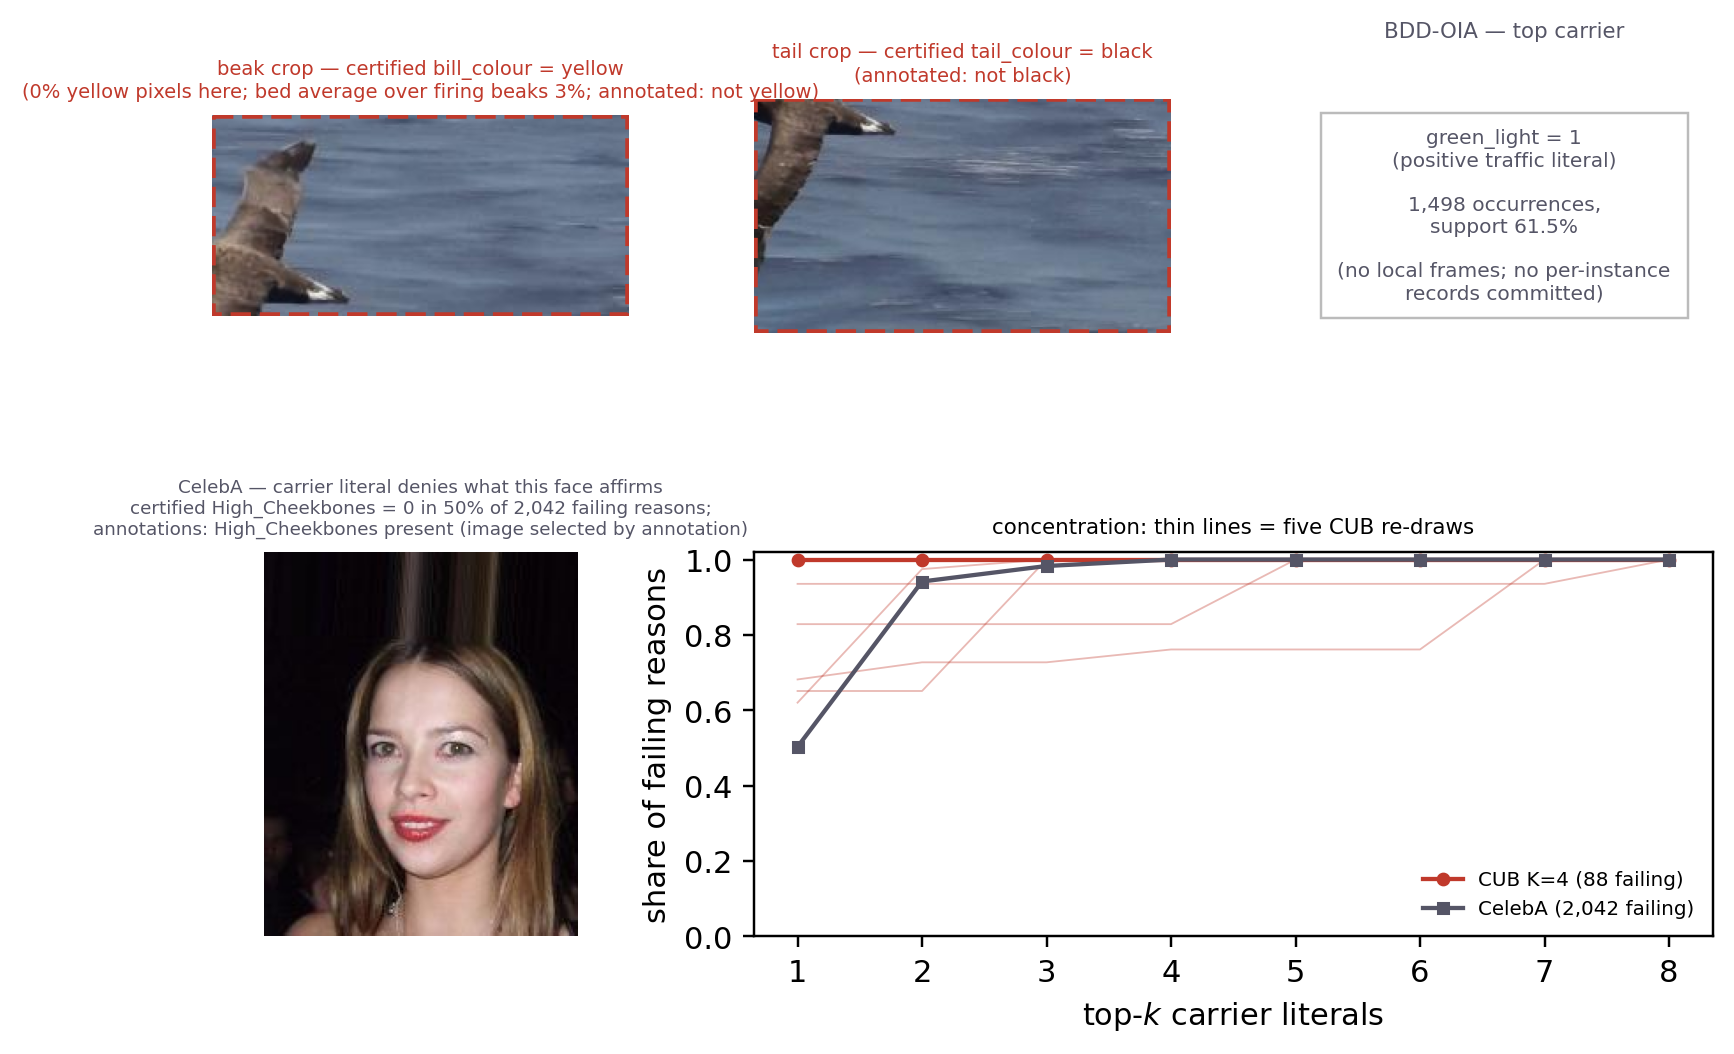
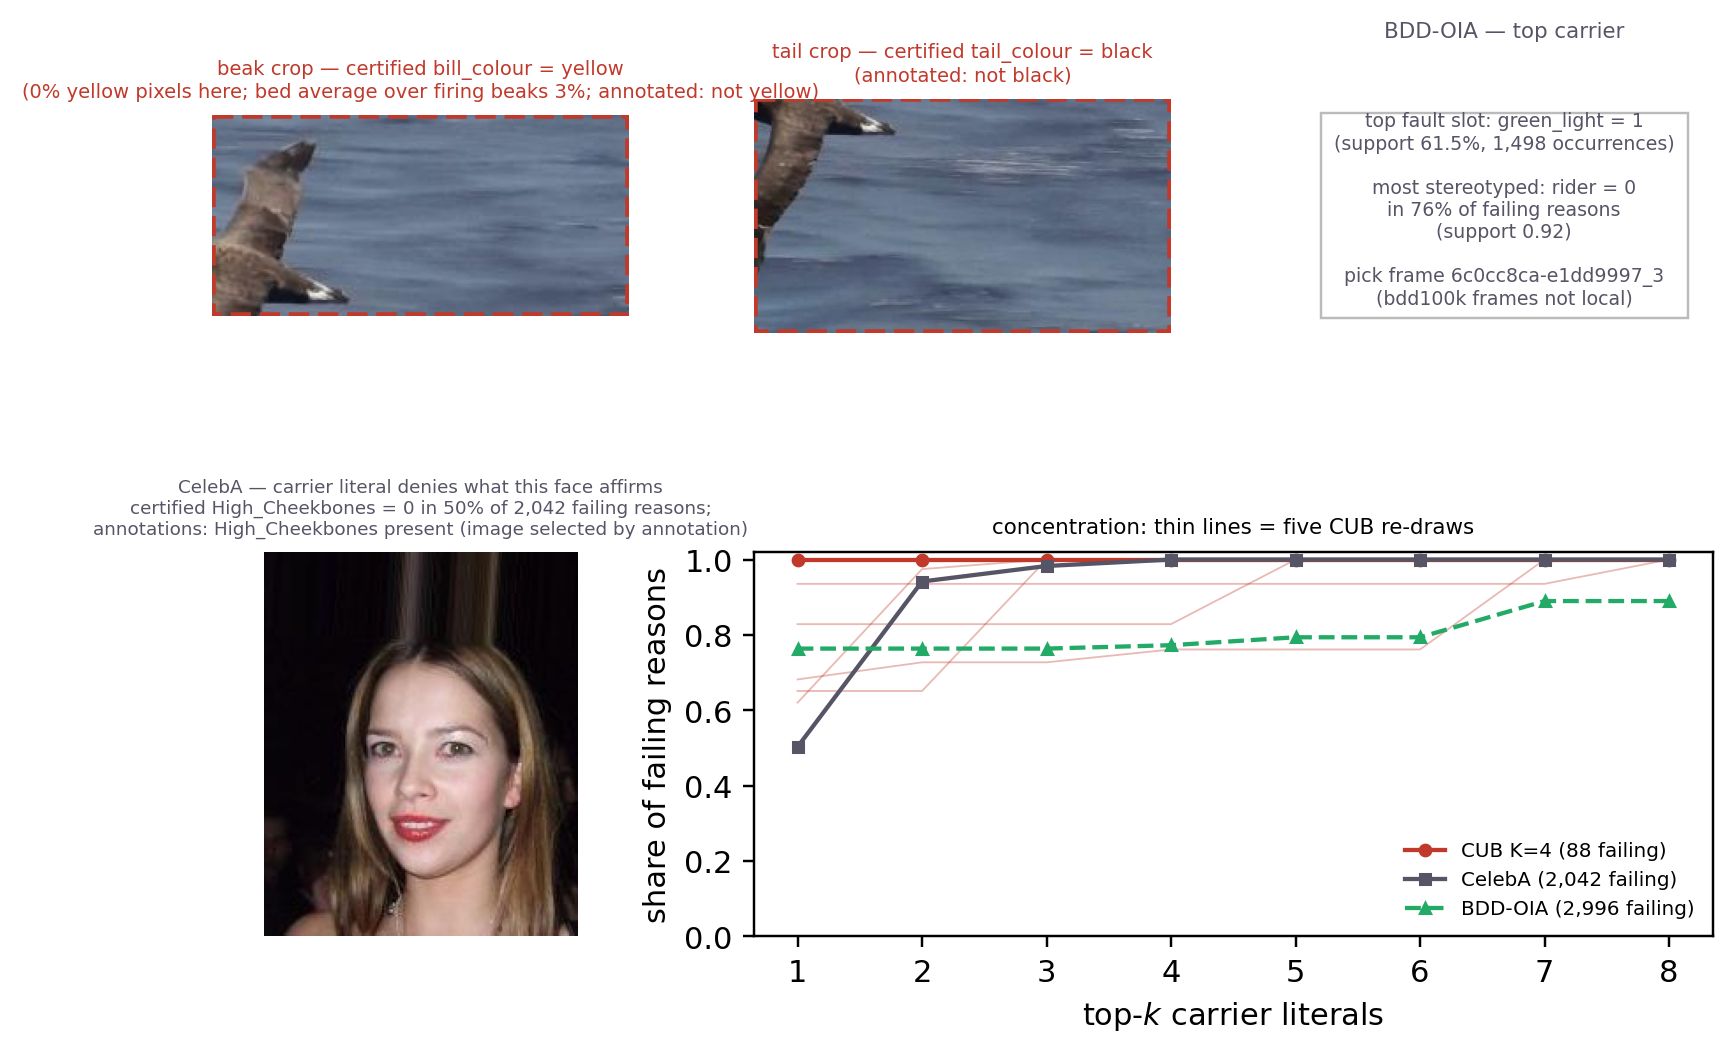
feat: RSBench per-instance records found in committed audit - BDD concentration line + stereotyped-vs-fault nuance in fig_failures; named pick frame 6c0cc8ca-e1dd9997_3; caption corrected (records existed)

diff --git a/grounded_vision/scripts/plot_fig_failures.py b/grounded_vision/scripts/plot_fig_failures.py
@@ -145,10 +145,11 @@ def main():
     ax02.set_title("BDD-OIA — top carrier", fontsize=7, color=GREY)
     bdd = json.load(open(os.path.join(REPO, "results", "bdd_oia_audit.json")))
     gl = bdd["literal_marginals"]["green_light=1"]
-    ax02.text(0.5, 0.5, "green_light = 1\n(positive traffic literal)\n\n"
-              f"{gl['n']:,} occurrences,\nsupport {gl['support']:.1%}\n\n"
-              "(no local frames; no per-instance\nrecords committed)",
-              ha="center", va="center", fontsize=6.6, color=GREY,
+    ax02.text(0.5, 0.52, "top fault slot: green_light = 1\n"
+              f"(support {gl['support']:.1%}, {gl['n']:,} occurrences)\n\n"
+              "most stereotyped: rider = 0\nin 76% of failing reasons\n(support 0.92)\n\n"
+              "pick frame 6c0cc8ca-e1dd9997_3\n(bdd100k frames not local)",
+              ha="center", va="center", fontsize=6.2, color=GREY,
               transform=ax02.transAxes)
     ax02.add_patch(Rectangle((0.06, 0.18), 0.88, 0.64, fill=False, ec="#bbb", lw=0.8,
                              transform=ax02.transAxes))
@@ -170,6 +171,11 @@ def main():
     cur_c, nfc = share_curve(cele_rec)
     ax.plot(ks[:len(cur_c)], cur_c, "s-", color=GREY, ms=3.5, lw=1.4,
             label=f"CelebA ({nfc:,} failing)")
+    bdd_rec = [{"literals": [{"feature": l[0], "bit": l[1]} for l in r["reason"]],
+                "all_supported": r["all_true"]} for r in bdd["reasons"]]
+    cur_b, nfb = share_curve(bdd_rec)
+    ax.plot(ks[:len(cur_b)], cur_b, "^--", color="#2a6", ms=3.5, lw=1.4,
+            label=f"BDD-OIA ({nfb:,} failing)")
     ax.set_xlabel("top-$k$ carrier literals")
     ax.set_ylabel("share of failing reasons")
     ax.set_ylim(0, 1.02)

diff --git a/docs/wiki/PAPER_BODY_DRAFT.md b/docs/wiki/PAPER_BODY_DRAFT.md
@@ -981,3 +981,7 @@ Built tonight, all from committed JSONs, all scripts + PNG/PDF committed: **fig_
 ## Changelog 2026-11-14 (final, per user) — fig 1 + fig:pipeline DROPPED from the paper; fig_failures v2 with a real CelebA face
 
 User: "i dont need fig 1 and fig pipeline." Removed from the paper: the teaser figure environment and its two intro pointer sentences (¶1 pipit-contrast sentence deleted; intro prose intact otherwise), and §3's opening no longer references any figure ("Our setup is a four-stage pipeline..."). fig:failures caption reworded ("our running example (image #44)" instead of Fig.~\ref{fig:gap}). The artifacts (fig1_v2, fig1_gap, fig_pipeline + scripts) REMAIN COMMITTED as available-if-wanted; no text references them. fig_failures v2: CelebA panel now shows a REAL FACE — annotation-selected (middle test-partition image whose attributes AFFIRM High_Cheekbones, the state the top failing carrier literal denies), because the audit's identity-disjoint parquet export retained no idx→filename mapping (verified: Smiling-gt agreement against the archive order is chance, 3,384/6,654; custom 17,134/6,623/6,654 split). The panel title states both the carrier share (50% of 2,042 failing reasons) and the selection rule. BDD-OIA keeps its card: no frames local (bdd100k not downloaded) and no per-instance records committed — the only honest option. Layout now: [beak | tail | BDD card] / [CelebA face | concentration curves].
+
+## Changelog 2026-11-15 — RSBench per-instance FOUND in the committed audit; fig_failures gains the BDD line
+
+User: "check if we could use RSBench results." Answer: YES — `bdd_oia_audit.json` carried per-instance records all along under the key `reasons` (6,433 records; my earlier schema probe looked for `per_instance` and wrongly concluded none existed — corrected; the fig caption and prior changelog claims about "no per-instance records" are fixed). New from those records: BDD concentration curve added to fig_failures (containment rule, same as CUB/CelebA); top fault-weighted slot green_light=1 (support 0.615) vs the most CONTAINED literal rider=0 in 2,288/2,996 = 76% of failing reasons at support 0.918 — BDD reasons are short and stereotyped, the fault sits in the traffic-light slots (caption states both). Deterministic qualitative pick (median-length failing reason citing green_light=1, middle idx): action forward, test idx 2284, frame 6c0cc8ca-e1dd9997_3.jpg, reason [green_light=1, rider=0, other_obstacle=0] — frame name from the local Zenodo bdd2048 bundle's sorted inputs listing; the image itself still needs bdd100k (registration). BDD card in fig_failures now data-rich (fault slot + stereotyped literal + named pick frame).
